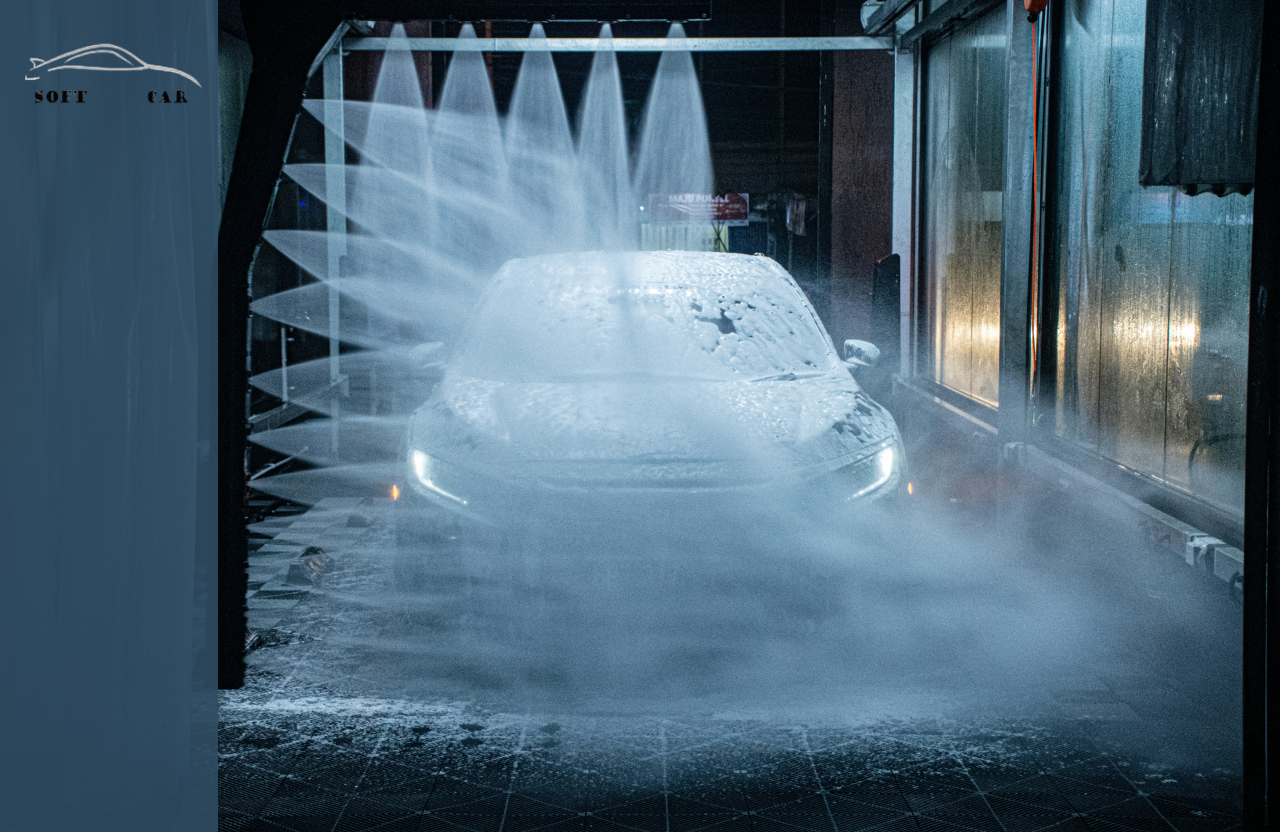
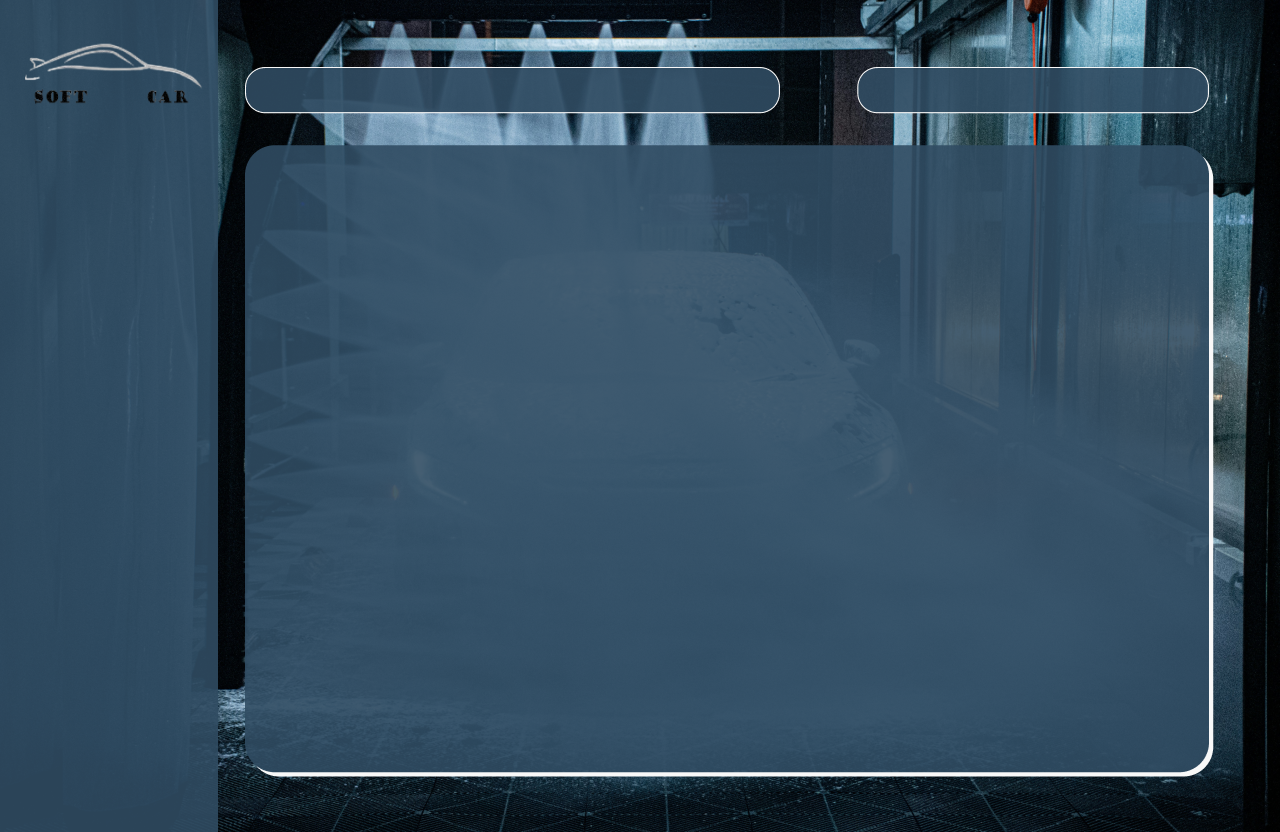
atualização 13.07.2026

diff --git a/view/lista_funcionarios.py b/view/lista_funcionarios.py
@@ -180,16 +180,16 @@ def tela_lista_funcionarios():
     style = ttk.Style()
     style.theme_use("clam")
     style.layout("Treeview", [
-        ("Treeview.field", {"sticky": "nswe", "border": 0, "children": [
+        ("Treeview.field", {"sticky": "nswe", "children": [
             ("Treeview.padding", {"sticky": "nswe", "children": [
                 ("Treeview.treearea", {"sticky": "nswe"})
             ]})
         ]})
     ])
     style.configure("Treeview",
-                    background="#3a5a6e",
+                    background="#375269",
                     foreground=cor_branco,
-                    fieldbackground="#3a5a6e",
+                    fieldbackground="#375269",
                     rowheight=28,
                     borderwidth=0)
     style.configure("Treeview.Heading",
@@ -197,25 +197,35 @@ def tela_lista_funcionarios():
                     foreground=cor_branco,
                     relief="flat",
                     borderwidth=0)
+    style.layout("Treeview.Heading", [
+        ("Treeview.Heading.cell", {"sticky": "nswe", "children": [
+            ("Treeview.Heading.padding", {"sticky": "nswe", "children": [
+                ("Treeview.Heading.label", {"sticky": "nswe"})
+            ]})
+        ]})
+    ])
     style.map("Treeview",
               background=[("selected", cor_dourado)])
+    style.map("Treeview.Heading",
+              background=[("active", "#2c4a5c")],
+              relief=[("active", "flat")])
 
     # ---- BARRA DE BUSCA ----
-    frame_top = ctk.CTkFrame(canvas, fg_color=cor_fundo)
+    frame_top = ctk.CTkFrame(canvas, fg_color="#375269", corner_radius=0)
     frame_top_window = canvas.create_window(0, 0, window=frame_top, anchor="nw")
 
-    ctk.CTkLabel(frame_top, text="Buscar:", font=("Arial", 10), text_color=cor_branco).pack(side="left", padx=5)
-    entry_busca = ctk.CTkEntry(frame_top, width=200)
+    ctk.CTkLabel(frame_top, text="Pesquisar", font=("Arial", 11, "bold"), text_color=cor_branco).pack(side="left", padx=5)
+    search_var = tk.StringVar()
+    entry_busca = ctk.CTkEntry(frame_top, width=200, fg_color="#375269", border_color="#2c4a5c", corner_radius=0, textvariable=search_var)
     entry_busca.pack(side="left", padx=5)
-    ctk.CTkButton(frame_top, text="Buscar", font=("Arial", 9, "bold"), fg_color=cor_fundo2, text_color=cor_branco, hover_color=cor_dourado, width=70, command=lambda: buscar_funcionarios(tree, entry_busca)).pack(side="left", padx=5)
-    ctk.CTkButton(frame_top, text="Limpar", font=("Arial", 9, "bold"), fg_color=cor_fundo2, text_color=cor_branco, hover_color=cor_dourado, width=70, command=lambda: [entry_busca.delete(0, "end"), carregar_funcionarios(tree)]).pack(side="left", padx=5)
+    search_var.trace_add("write", lambda *args: buscar_funcionarios(tree, entry_busca))
+
+    btn_cadastrar = ctk.CTkButton(canvas, text="Cadastrar Funcionário +", font=("Arial", 11, "bold"), fg_color="#375269", text_color=cor_branco, border_width=0, hover_color=cor_dourado, width=150, corner_radius=0, command=lambda: abrir_formulario(tree))
+    btn_cadastrar_window = canvas.create_window(0, 0, window=btn_cadastrar, anchor="nw")
 
     # ---- BOTÕES DE AÇÃO ----
     frame_btns = ctk.CTkFrame(canvas, fg_color=cor_fundo)
     frame_btns_window = canvas.create_window(0, 0, window=frame_btns, anchor="nw")
-
-    def cmd_novo():
-        abrir_formulario(tree)
 
     def cmd_editar():
         selecionado = tree.selection()
@@ -238,7 +248,6 @@ def tela_lista_funcionarios():
     def cmd_excluir():
         excluir_funcionario(tree)
 
-    ctk.CTkButton(frame_btns, text="Novo", font=("Arial", 8, "bold"), fg_color=cor_fundo2, text_color=cor_branco, border_width=1, border_color="white", hover_color=cor_dourado, width=70, command=cmd_novo).pack(side="left", padx=8, pady=2)
     ctk.CTkButton(frame_btns, text="Editar", font=("Arial", 8, "bold"), fg_color=cor_fundo2, text_color=cor_branco, border_width=1, border_color="white", hover_color=cor_dourado, width=70, command=cmd_editar).pack(side="left", padx=8, pady=2)
     ctk.CTkButton(frame_btns, text="Excluir", font=("Arial", 8, "bold"), fg_color=cor_fundo2, text_color=cor_branco, border_width=1, border_color="white", hover_color=cor_dourado, width=70, command=cmd_excluir).pack(side="left", padx=8, pady=2)
 
@@ -258,8 +267,15 @@ def tela_lista_funcionarios():
     tree.column("telefone_func", width=120, anchor="center")
     tree.column("cargo", width=100, anchor="center")
 
-    tree.tag_configure("odd", background="#345266")
-    tree.tag_configure("even", background="#3a5a6e")
+    tree.tag_configure("odd", background="#375269")
+    tree.tag_configure("even", background="#375269")
+
+    def _clicar_editar(event, tree):
+        col = tree.identify_column(event.x)
+        if col == "#7":
+            cmd_editar()
+
+    tree.bind("<ButtonRelease-1>", lambda e: _clicar_editar(e, tree))
 
     scrollbar = ttk.Scrollbar(canvas, orient="vertical", command=tree.yview)
 
@@ -329,7 +345,8 @@ def tela_lista_funcionarios():
         cw = w * 0.753
         ch = h * 0.750
 
-        canvas.coords(frame_top_window, cx + 2, cy + 2)
+        canvas.coords(frame_top_window, cx + 30, cy - 55)
+        canvas.coords(btn_cadastrar_window, cx + cw - 190, cy - 55)
         canvas.coords(tree_window, cx + 2, cy + 55)
         canvas.itemconfig(tree_window, width=max(100, cw - 32), height=max(100, ch - 105))
         canvas.coords(scrollbar_window, cx + cw - 22, cy + 55)